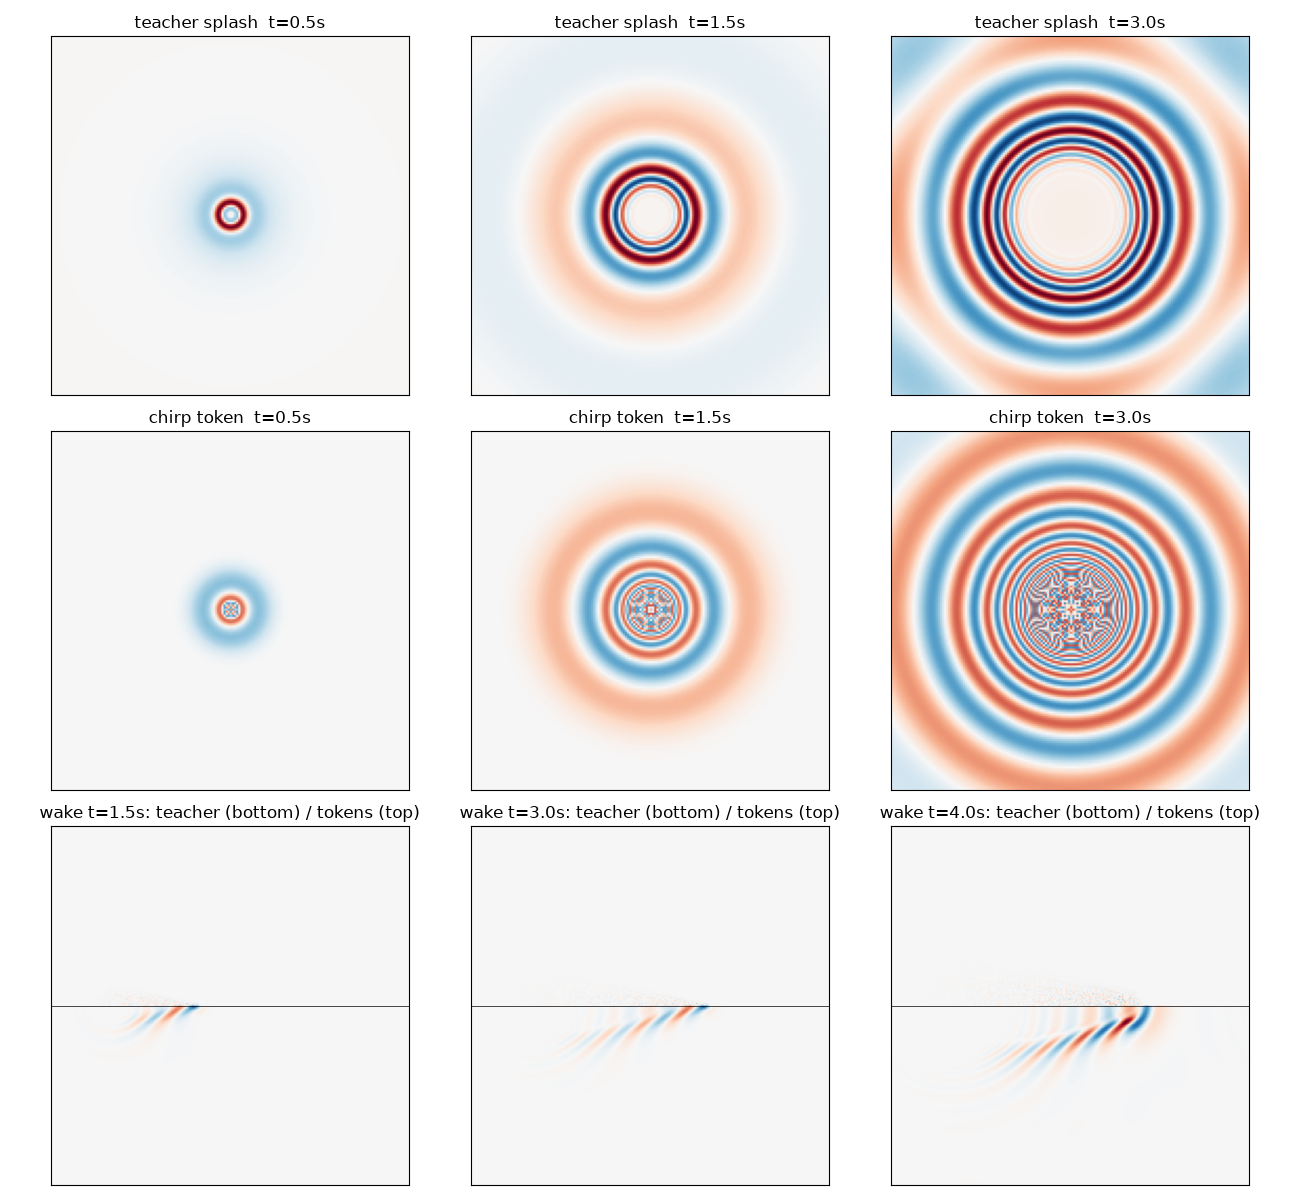
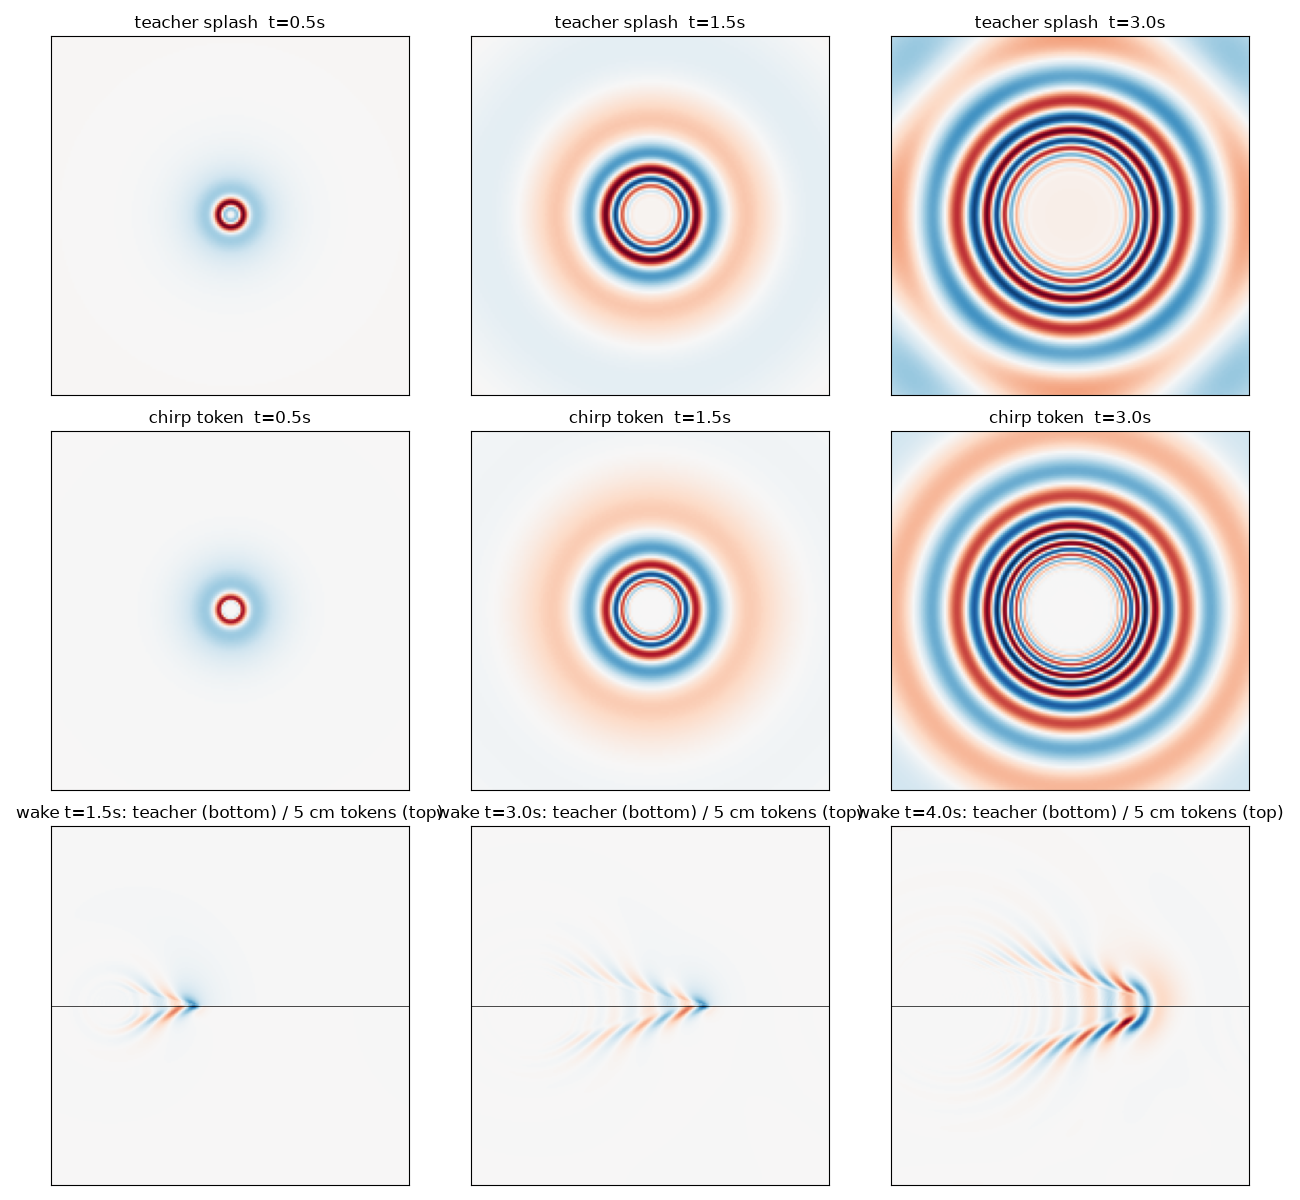
Water rerun with viscous cutoff: splash 0.31/0.33, cards updated
Claude-Session: https://claude.ai/code/session_01NhsDKV4Hj74paroP3vTa7w

diff --git a/toolkit/pond-ripples.md b/toolkit/pond-ripples.md
@@ -12,10 +12,16 @@ ahead, short waves trail, so the phase is the Cauchy-Poisson chirp
 `g t^2 / (4 r)`, not `k r - w t`:
 
 ```
+k_loc         = g_eff tau^2 / (4 r^2)                       (local wavenumber of the chirp)
 chirp(r, tau) = A * exp(-lam tau) * (tau / 0.5)^m / (1 + r / r0)^n
               * exp(-(r / (v_max tau + 0.02))^4)            (soft causal front)
+              * exp(-(k_loc / k_cut)^2)                     (viscous cutoff of short waves)
               * cos(g_eff tau^2 / (4 max(r, 0.02)) + phi)
 ```
+
+The viscous cutoff matters: without it the chirp fills the inside of the
+ring with ever-shorter waves that a real pond damps away, and the slope
+error doubles (0.65 versus 0.33).
 
 The fixed-wavelength ring from the vegetation grammar (`RingWaveBend` in
 the HLSL) is wrong for water: fitted freely it scores worse than drawing
@@ -25,12 +31,13 @@ one speed (a shock through grass); use the chirp for water.
 **Fitted parameters** (metres, seconds, 0.4 m deep pond, 3 cm impulse):
 
 ```
-chirp: A=0.0054  lam=0.215  m=-1  n=0.047  g_eff=9.81  phi=1.58  v_max=0.87
+chirp: A=0.1  lam=0.106  m=0.31  n=1.71  g_eff=9.8  phi=1.62  v_max=1.85  k_cut=54
 ```
 
-`g_eff` was searched over 2 to 30 and landed on 9.81: the fit recovered
+`g_eff` was searched over 2 to 30 and landed on 9.80: the fit recovered
 gravity from the height field, which is the sanity check that the chirp is
-the right functional form.
+the right functional form. `k_cut` of 54 rad/m means waves shorter than
+about 12 cm are damped, a plausible viscous scale for a pond.
 
 **Teacher.** `poc/water/teacher.py`: spectral linear water waves on a
 256x256 grid, full dispersion relation with depth, exact per-mode
@@ -40,20 +47,24 @@ propagation, viscous plus bulk damping. Exact for small amplitude.
 
 | case | height error | slope error | live tokens per point |
 |---|---|---|---|
-| splash, chirp token | 0.49 | 0.65 | 1 |
-| wake, Huygens, 2 cm spacing | 0.58 | | 54 |
-| wake, Huygens, 5 cm spacing | 0.59 | | 22 |
-| wake, Huygens, 10 cm spacing | 0.61 | | 11 |
-| wake, Huygens, 20 cm spacing | 0.70 | | 6 |
+| splash, fixed-wavelength ring | 1.08 | 1.34 | 1 |
+| splash, chirp token | 0.31 | 0.33 | 1 |
+| wake, Huygens, 2 cm spacing | 0.59 | | 48 |
+| wake, Huygens, 5 cm spacing | 0.59 | | 19 |
+| wake, Huygens, 10 cm spacing | 0.61 | | 10 |
+| wake, Huygens, 20 cm spacing | 0.70 | | 5 |
 
-Cost 34 ops per point per live token. For water the natural runtime is a
+Cost 40 ops per point per live token. Refitting the token's shape on the
+wake itself (17 minutes of differential evolution) did not beat the
+transferred splash token, so the wake residual is the difference between an
+impulse and a moving pressure source, not the token's shape. For water the natural runtime is a
 baked height/normal texture over the pond, cells at half the shortest
 wavelength you want to show, updated once per frame from the live tokens.
 
-**Known limits.** Height error of 0.49 on a splash is a visual match of
-the ring pattern, speed and decay, not of every crest; slope (what the
-shader actually renders) is worse at 0.65 because the chirp's short
-trailing waves are where the residual sits. Linear teacher only: no
+**Known limits.** Height error of 0.31 on a splash is a visual match of
+the ring pattern, speed, decay and wavelength trend, not of every crest.
+The wake at 0.6 keeps the V pattern and its spacing but not the amplitude
+distribution along the arms. Linear teacher only: no
 breaking, no splash crown, no drops. Real puddles are shallow and
 nonlinear, see the puddle-slosh card. Wake tokens per point grow with
 path length; cap by killing tokens once `exp(-lam tau)` is below 1e-3.

diff --git a/poc/results/water.md b/poc/results/water.md
@@ -7,13 +7,13 @@ Teacher: 256x256 spectral linear waves on a 6.0 m pond, depth 0.4 m, exact per-m
 | token | height error | slope error | ops per point per live token |
 |---|---|---|---|
 | ring | 1.076 | 1.338 | 26 |
-| chirp | 0.494 | 0.647 | 34 |
+| chirp | 0.309 | 0.334 | 40 |
 
 Fitted parameters:
 
 ```
 ring: A=0.006921, lam=0.8488, v=1.072, w=0.3286, kappa=115.6, phi=2.935
-chirp: A=0.005378, lam=0.2149, m=-1, n=0.04654, g_eff=9.807, phi=1.579, v_max=0.8732
+chirp: A=0.1, lam=0.1059, m=0.3099, n=1.714, g_eff=9.801, phi=1.621, v_max=1.85, k_cut=54.02
 ```
 
 ## Wake (a 5 cm pressure bump dragged 3 m at 1 m/s), token: chirp
@@ -22,10 +22,7 @@ Huygens superposition of the splash-fitted token along the path, one global ampl
 
 | emission spacing | tokens | live tokens per point | height error |
 |---|---|---|---|
-| 0.02 m | 151 | 54.3 | 0.582 |
-| 0.05 m | 61 | 21.9 | 0.588 |
-| 0.10 m | 31 | 11.1 | 0.612 |
-| 0.20 m | 16 | 5.7 | 0.696 |
-
-Token shape refitted on the wake itself at 5 cm spacing: height error 1.019, 2.6 live tokens per point.
-
+| 0.02 m | 151 | 47.7 | 0.586 |
+| 0.05 m | 61 | 19.2 | 0.587 |
+| 0.10 m | 31 | 9.7 | 0.606 |
+| 0.20 m | 16 | 5.0 | 0.697 |

diff --git a/README.md b/README.md
@@ -88,8 +88,9 @@ correlation length is better done as seeded per-stalk noise than as tokens.
 
 Water (`poc/water/`, results in `poc/results/water.md`, `slosh_pulse.md`,
 `slosh.md`): against an exact linear-wave solver, a dispersive chirp ring
-fits a splash at 0.49 height error and recovers g = 9.81 on its own, while
-the fixed-wavelength ring is worse than nothing; a wake is the Huygens sum
+with a viscous cutoff fits a splash at 0.31 height and 0.33 slope error and
+recovers g = 9.8 on its own, while the fixed-wavelength ring is worse than
+nothing; a wake is the Huygens sum
 of splash tokens along the path at 0.6 error with 6 to 22 live tokens per
 point. Against real MPM puddle data (DeepMind WaterDrop), neither standing
 modes nor a bouncing pulse extrapolate past the fit window: confined
